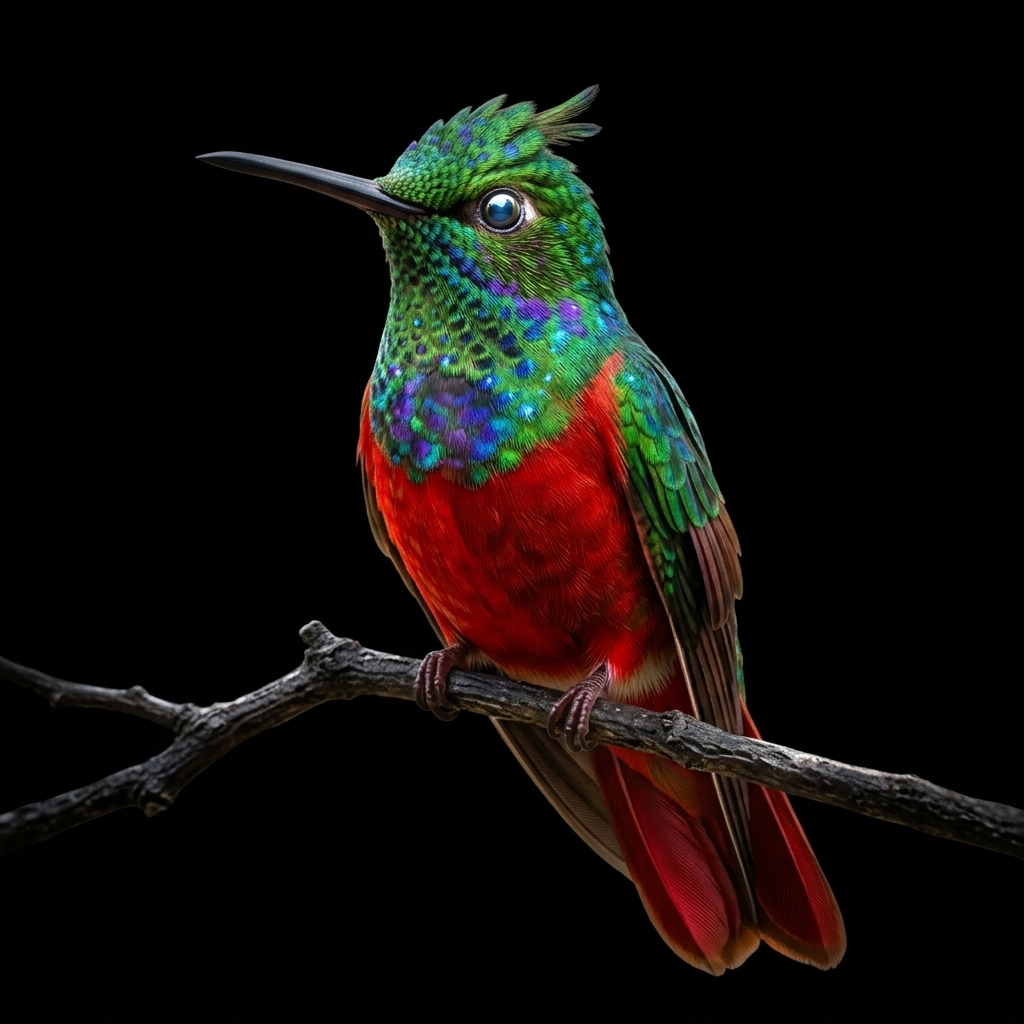
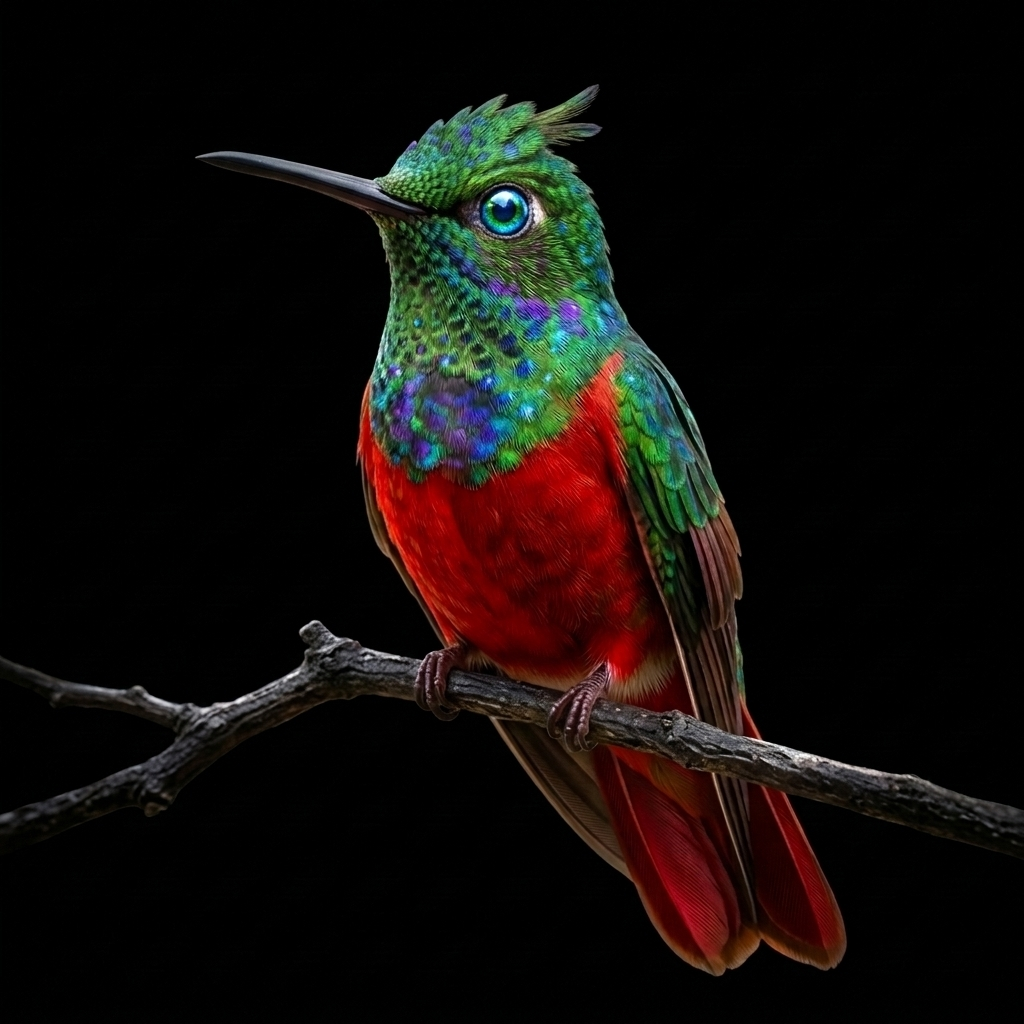
feat(header): anadir CTA a Kaleo y corregir datos institucionales del fundador
- Header: agregar boton azul 'Necesito ayuda' que enlaza a la plataforma principal de Kaleo y replicar en panel movil
- Header: ajustar jerarquia del boton 'Participar' a outline y definir breakpoints responsivos limpios
- Institutional & Tienda: corregir el nombre del fundador a Fernando Rafael Garcia Garcia en seccion de comite y autoria editorial
- Assets: integrar actualizacion de la ilustracion del colibri Ojopelao
- Docs: anadir registro de cambio en docs/ajustes-gobernanza-y-navegacion.md

diff --git a/frontend/src/components/layout/Header.tsx b/frontend/src/components/layout/Header.tsx
@@ -4,6 +4,7 @@ import React, { useEffect, useRef, useState } from 'react';
 import Link from 'next/link';
 import { ArrowUpRight, Menu, X } from 'lucide-react';
 import { BrandLogo } from './BrandLogo';
+import { KALEO_DATA } from '@/domain/entities/Kaleo';
 import styles from './Header.module.css';
 
 /** Navegación de producto en escritorio: orientada a la acción y claridad de oferta. */
@@ -89,9 +90,19 @@ export function Header() {
         </nav>
 
         <div className={styles.actions}>
-          <a href="#participar" className={`btn btn--primary ${styles.cta}`}>
-            <span>Participar</span>
+          <a
+            href={KALEO_DATA.appUrl}
+            target="_blank"
+            rel="noopener noreferrer"
+            className={`btn btn--primary ${styles.kaleoCta}`}
+            title="Abrir la plataforma principal de Kaleo"
+          >
+            <span>Necesito ayuda</span>
             <ArrowUpRight size={16} aria-hidden="true" />
+          </a>
+
+          <a href="#participar" className={`btn btn--outline ${styles.cta}`}>
+            <span>Participar</span>
           </a>
 
           <button
@@ -126,6 +137,25 @@ export function Header() {
               {item.label}
             </a>
           ))}
+          <div className={styles.panelActions}>
+            <a
+              href={KALEO_DATA.appUrl}
+              target="_blank"
+              rel="noopener noreferrer"
+              className="btn btn--primary btn--block"
+              onClick={() => setOpen(false)}
+            >
+              <span>Necesito ayuda (Kaleo)</span>
+              <ArrowUpRight size={16} aria-hidden="true" />
+            </a>
+            <a
+              href="#participar"
+              className="btn btn--outline btn--block"
+              onClick={() => setOpen(false)}
+            >
+              <span>Participar en la red</span>
+            </a>
+          </div>
         </nav>
       </div>
     </header>

diff --git a/frontend/src/domain/entities/Institutional.ts b/frontend/src/domain/entities/Institutional.ts
@@ -2,7 +2,7 @@
  * Comité, Liderazgo y Reconocimiento Histórico — Fundación Vive con Esperanza
  *
  * Estructura de gobernanza y trayectoria:
- * 1. Destacados y Liderazgo: Fernando Galvis (Fundador) y Rocío Galvis Guerrero (Esposa del fundador y parte del liderazgo).
+ * 1. Destacados y Liderazgo: Fernando Rafael García García (Fundador) y Rocío Galvis Guerrero (Esposa del fundador y parte del liderazgo).
  * 2. Personas Emblemáticas / Reconocimiento Histórico: Sonia Mora (Trayectoria e impacto histórico, no forma parte directa actualmente).
  * 3. Integrantes Actuales: Equipo y comité activo en territorio.
  *
@@ -28,7 +28,7 @@ export const COMMITTEE_SECTION_DATA = {
 /** Destacados y Liderazgo */
 export const FOUNDERS_LEADERSHIP: Leader[] = [
   {
-    name: 'Fernando Galvis',
+    name: 'Fernando Rafael García García',
     role: 'Fundador de la Fundación Vive con Esperanza',
     bio: 'Psicólogo con posgrados en Cooperación Internacional y Gestión de Proyectos de Desarrollo. Visionario de la resiliencia escolar y director del Rally Continental. Ha liderado alianzas estratégicas con la OEA, UNDRR, PNUMA y ministerios de educación en toda la región para transformar las aulas en motores de desarrollo local.',
     badge: 'Fundador',

diff --git a/frontend/src/domain/entities/StoreItem.ts b/frontend/src/domain/entities/StoreItem.ts
@@ -102,7 +102,7 @@ export const STORE_ITEMS: StoreItem[] = [
     schoolProgram:
       'Dispone de un programa de impacto escolar continental diseñado para involucrar a las nuevas generaciones en la gestión del riesgo de desastres, la acción climática y la transformación territorial.',
     bookDetail: {
-      author: 'Fernando Galvis, Rocío Galvis Guerrero & Equipo Pedagógico',
+      author: 'Fernando Rafael García García, Rocío Galvis Guerrero & Equipo Pedagógico',
       synopsis: 'Siete aventuras ilustradas donde cada personaje encarna un desafío ambiental y de protección civil.',
       review:
         'Esta colección conecta la lectura infantil con la acción territorial directa. Respaldada por un programa pedagógico integral para escuelas, cada volumen guía a las niñas y niños a través de dilemas reales (cuidado del agua, energía limpia, reducción de residuos, soberanía alimentaria y mitigación del cambio climático), sembrando en las nuevas generaciones la capacidad de liderar sus territorios.',

diff --git a/frontend/src/components/layout/Header.module.css b/frontend/src/components/layout/Header.module.css
@@ -97,10 +97,18 @@
   flex-shrink: 0;
 }
 
+.kaleoCta {
+  min-height: 2.5rem;
+  padding: 0.5rem 1.15rem;
+  font: var(--font-label-md);
+  white-space: nowrap;
+}
+
 .cta {
   min-height: 2.5rem;
   padding: 0.5rem 1.15rem;
   font: var(--font-label-md);
+  white-space: nowrap;
 }
 
 .toggle {
@@ -138,6 +146,15 @@
   padding: 0.5rem var(--shell-pad) 1.5rem;
 }
 
+.panelActions {
+  display: flex;
+  flex-direction: column;
+  gap: 0.75rem;
+  margin-top: 1.25rem;
+  padding-top: 1rem;
+  border-top: 1px solid var(--color-outline-variant);
+}
+
 .panelLink {
   display: flex;
   align-items: center;
@@ -167,11 +184,14 @@
   }
 }
 
-@media (max-width: 520px) {
-  /* Con el ancho más ajustado el CTA del header cede su lugar: el mismo botón
-     aparece en el panel y, sobre todo, en el hero. Apretarlo hasta las 32 px
-     de alto sería peor que no tenerlo. */
+@media (max-width: 680px) {
   .cta {
+    display: none;
+  }
+}
+
+@media (max-width: 460px) {
+  .kaleoCta {
     display: none;
   }
 }

diff --git a/frontend/src/components/sections/OriginAndCommitteeSection.tsx b/frontend/src/components/sections/OriginAndCommitteeSection.tsx
@@ -13,7 +13,7 @@ import styles from './OriginAndCommitteeSection.module.css';
  * 09 — Comité y Liderazgo de la Fundación.
  *
  * Estructura clara de gobernanza, trayectoria e integrantes:
- * 1. Destacados y Liderazgo: Fernando Galvis (Fundador) y Rocío Galvis Guerrero.
+ * 1. Destacados y Liderazgo: Fernando Rafael García García (Fundador) y Rocío Galvis Guerrero.
  * 2. Personas Emblemáticas / Reconocimiento Histórico: Sonia Mora (explicando
  *    su impacto y especificando que ya no forma parte directa actualmente).
  * 3. Integrantes Actuales: Equipo y comités que coordinan el trabajo en terreno hoy.

diff --git a/docs/ajustes-gobernanza-y-navegacion.md b/docs/ajustes-gobernanza-y-navegacion.md
@@ -1,0 +1,37 @@
+# Registro de Cambio: Gobernanza Institucional, Enlace Directo a Kaleo y Actualización Gráfica
+
+- **Fecha:** 28 de septiembre de 2026
+- **Tipo de Cambio:** Alineación de gobernanza, navegación y activos gráficos (`feat` / `fix`)
+- **Estado:** Implementado, Verificado y Desplegado
+
+---
+
+## 1. Contexto y Objetivos
+
+Este cambio consolida tres requerimientos fundamentales de precisión institucional y experiencia de usuario (UX):
+
+1. **Acceso directo de emergencia/acompañamiento a Kaleo desde el Header**: Inclusión de un botón principal destacado en azul (`btn--primary`) con el llamado a la acción *"Necesito ayuda"*, que conecta inmediatamente al usuario con la plataforma de respuesta escolar [`https://kaleo-sage.vercel.app/`](https://kaleo-sage.vercel.app/). El botón de *"Participar"* pasa a estilo secundario delineado (`btn--outline`).
+2. **Corrección de Identidad y Autoría Institucional (Sección 09 - Gobernanza y Tienda)**: Corrección del nombre del Fundador de la Fundación Vive con Esperanza a **Fernando Rafael García García** (previamente figuraba erróneamente con el apellido materno de la co-lideresa institucional).
+3. **Actualización de Activos Visuales**: Sustitución de la ilustración oficial del colibrí *Ojopelao* (`frontend/public/img Pajaros/Ojopelao.jpeg`), personaje emblemático y anfitrión del Rally Continental 2028.
+
+---
+
+## 2. Matriz de Cambios
+
+| Componente / Módulo | Archivo | Modificación |
+| :--- | :--- | :--- |
+| **Header (UI)** | `frontend/src/components/layout/Header.tsx` | Botón destacado en azul `"Necesito ayuda"` hacia `KALEO_DATA.appUrl`, botón `"Participar"` como outline, y replicación en el cajón móvil (`#menu-movil`). |
+| **Header (Estilos)** | `frontend/src/components/layout/Header.module.css` | Clases `.kaleoCta`, `.panelActions` y puntos de quiebre responsivos (680px y 460px). |
+| **Gobernanza (Entidad)** | `frontend/src/domain/entities/Institutional.ts` | Nombre corregido: `Fernando Rafael García García`, rol: *Fundador de la Fundación Vive con Esperanza*. |
+| **Sección Comité (UI)** | `frontend/src/components/sections/OriginAndCommitteeSection.tsx` | Comentario y trazabilidad corregidos con el nombre canónico del fundador. |
+| **Catálogo Editorial (Entidad)** | `frontend/src/domain/entities/StoreItem.ts` | Autoría corregida en la Colección Libritos de Esperanza: *Fernando Rafael García García, Rocío Galvis Guerrero & Equipo Pedagógico*. |
+| **Activos Gráficos** | `frontend/public/img Pajaros/Ojopelao.jpeg` | Nueva versión de la imagen del colibrí *Ojopelao* (434 KB). |
+
+---
+
+## 3. Verificaciones de Calidad
+
+- **Tokens CSS**: 110 definidos / 101 usados / 0 huérfanos.
+- **Accesibilidad / Contraste**: 100% conforme con WCAG AA en tema claro y oscuro.
+- **Tipado TypeScript**: `npx tsc --noEmit` superado con 0 errores.
+- **Regla del Proyecto**: Sin builds locales directos (`build` descartado por directiva operativa).
